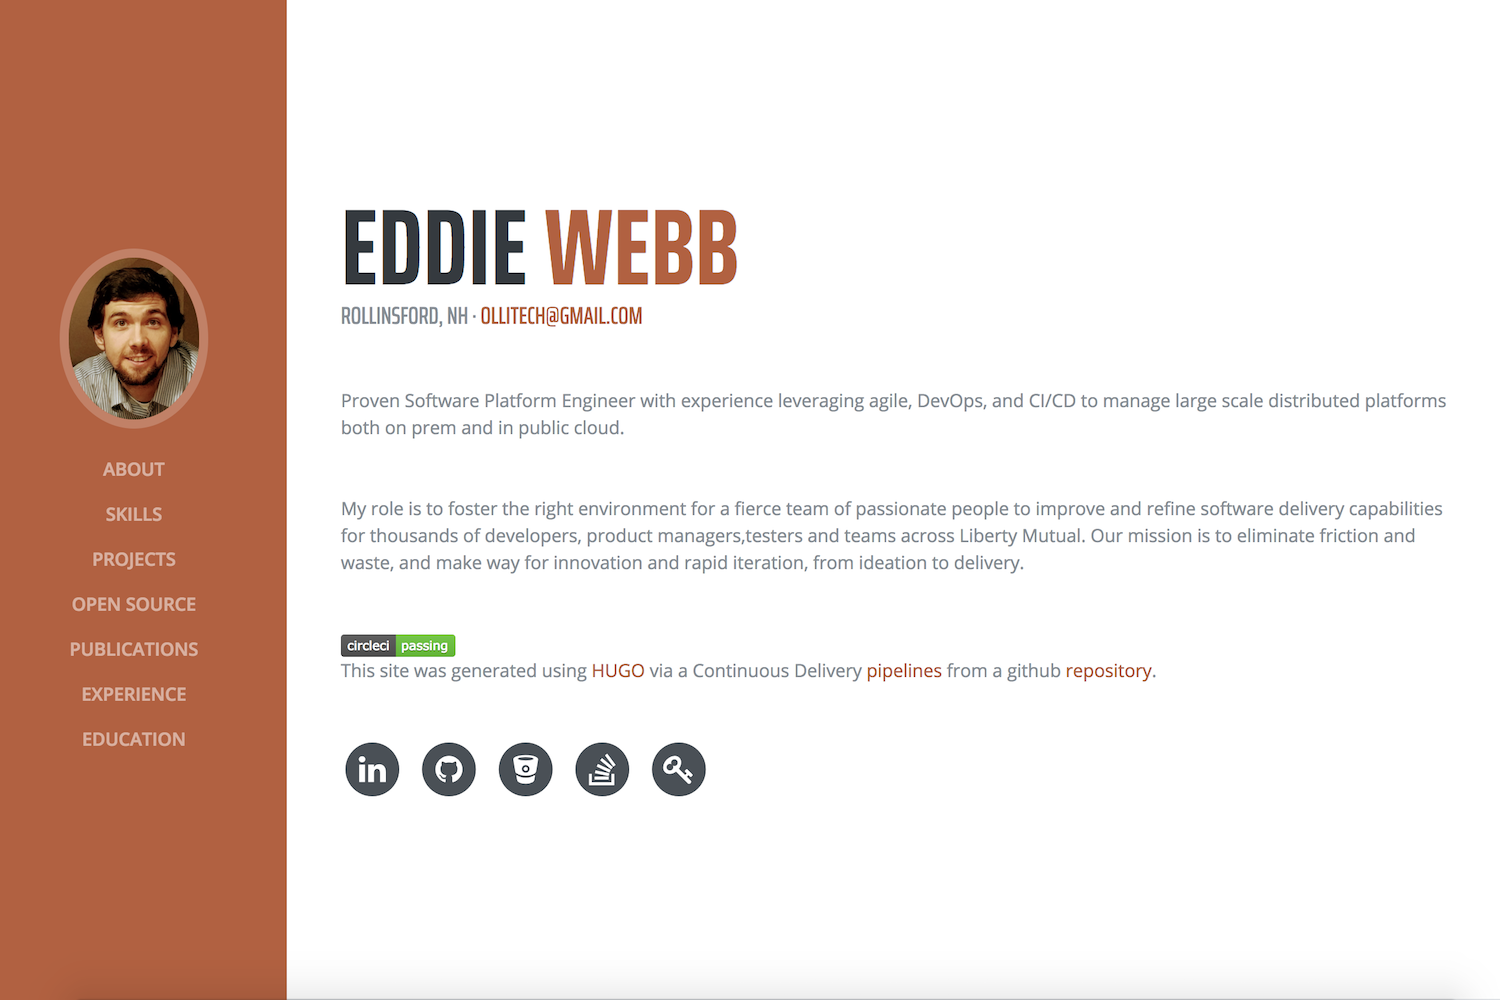
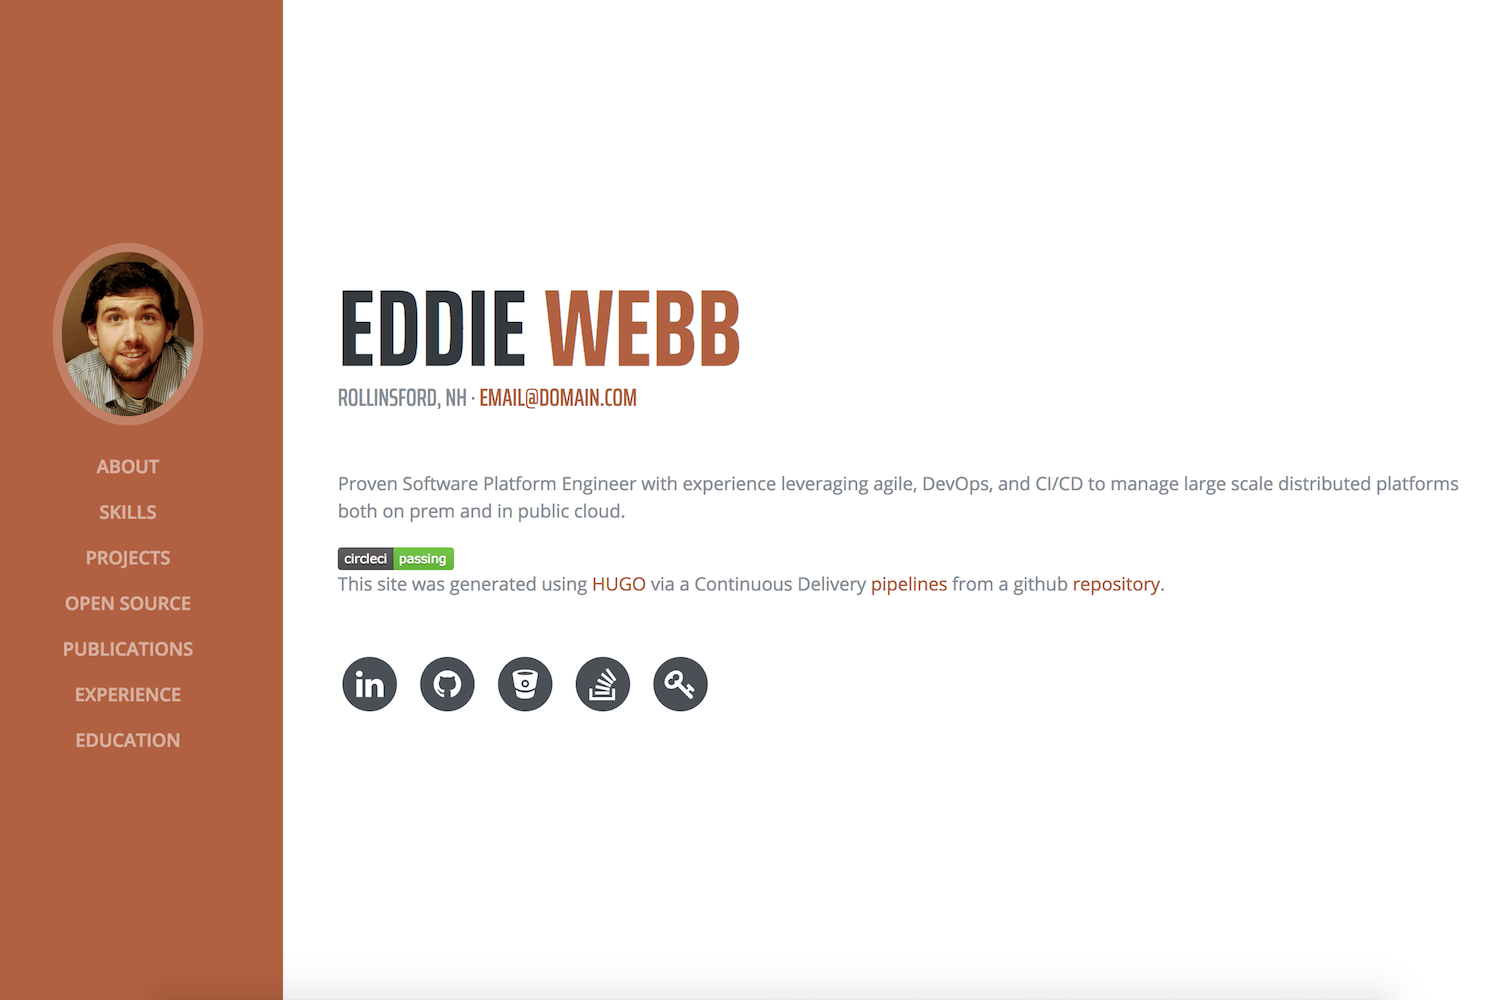
updated index to be anon, updated screenshots

diff --git a/exampleSite/content/_index.html b/exampleSite/content/_index.html
@@ -4,7 +4,7 @@ date: 2018-02-10T18:56:13-05:00
 sitemap:
   priority : 1.0
 ---
-<p class="mb-5">Proven Software Platform Engineer with experience leveraging agile, DevOps, and CI/CD to manage large scale distributed platforms both on prem and in public cloud.</p>
-<p class="mb-5">My role is to foster the right environment for a fierce team of passionate people to improve and refine software delivery capabilities for thousands of developers, product managers,testers and teams across Liberty Mutual. Our mission is to eliminate friction and waste, and make way for innovation and rapid iteration, from ideation to delivery.</p>
+<p>Proven Software Platform Engineer with experience leveraging agile, DevOps, and CI/CD to manage large scale distributed platforms both on prem and in public cloud.</p>
+
 <img src="https://circleci.com/gh/eddiewebb/json-resume.svg?style=shield" alt="CircleCI Status Badge"/>
 <p class="mb-5">This site was generated using <a href="https://gohugo.io/">HUGO</a> via a Continuous Delivery <a href="https://circleci.com/gh/eddiewebb/json-resume">pipelines</a> from a github <a href="https://github.com/eddiewebb/json-resume">repository</a>. </p>
